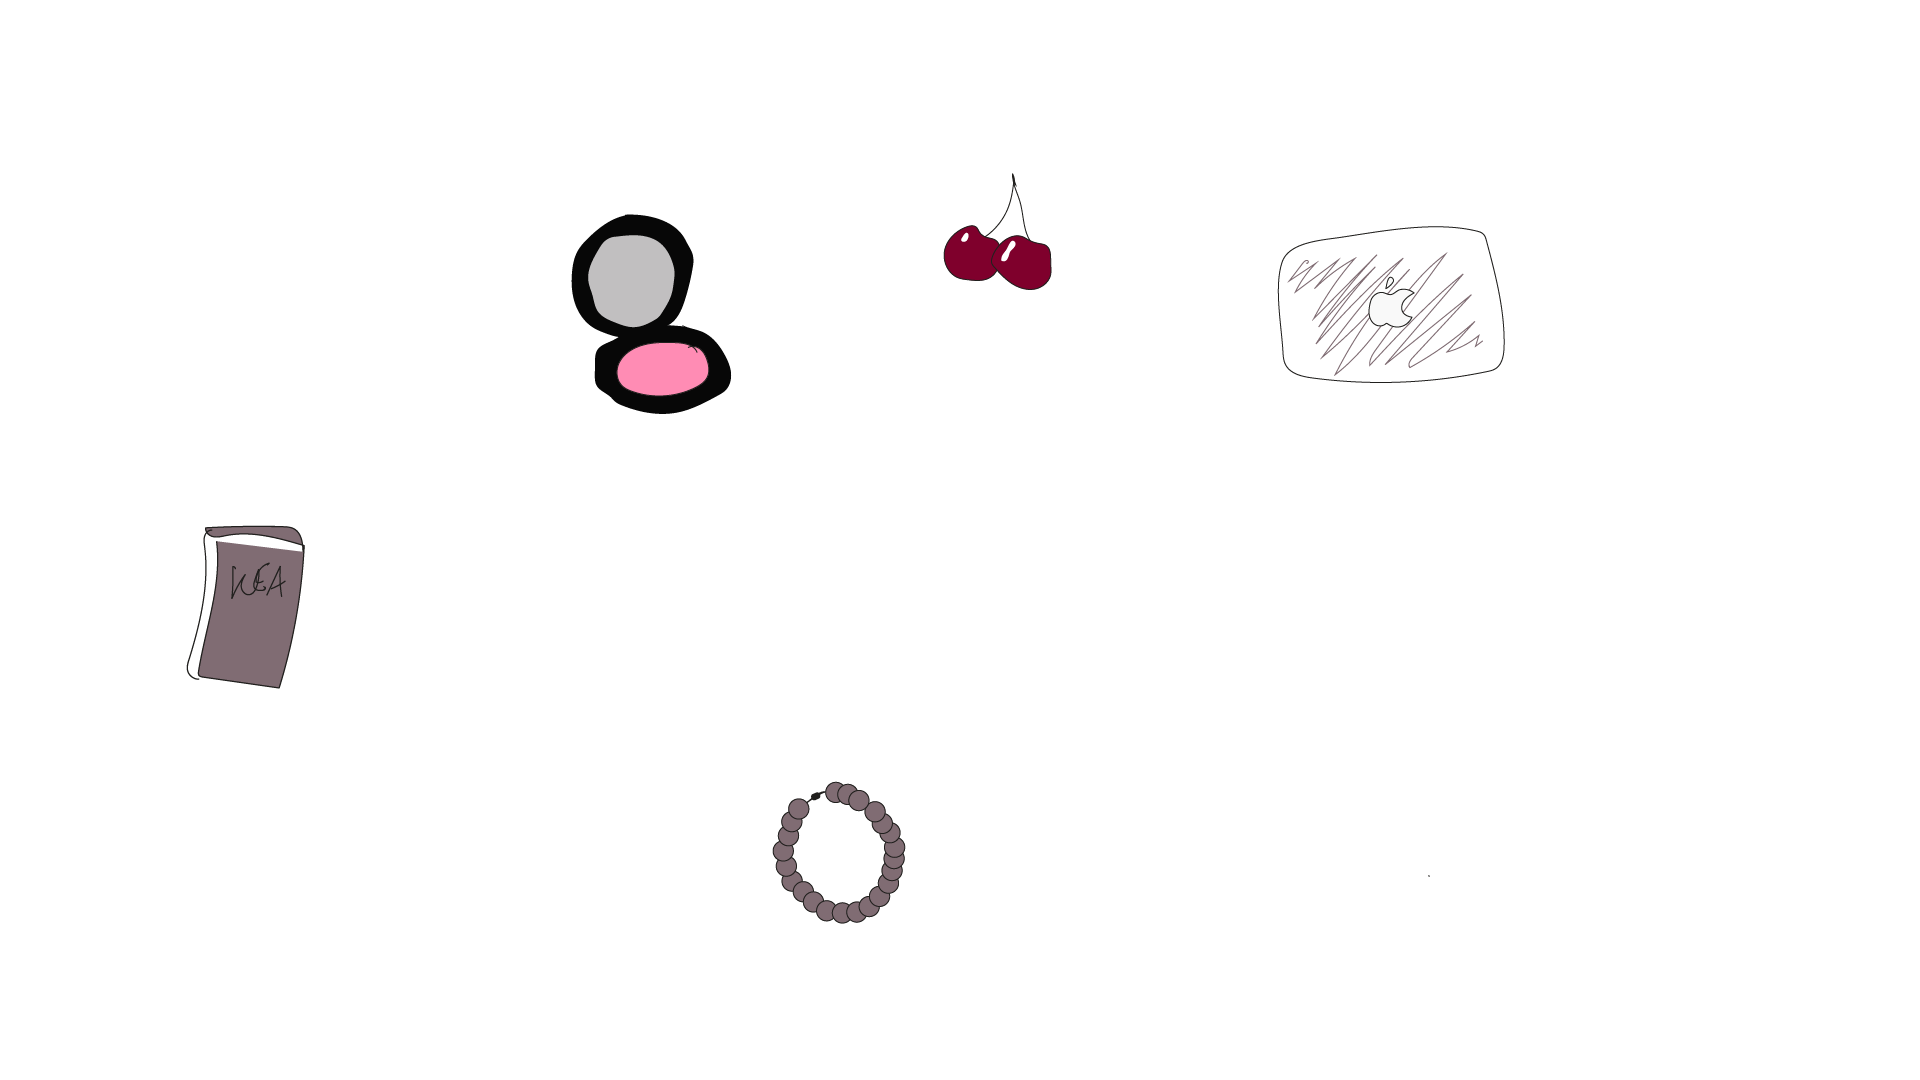
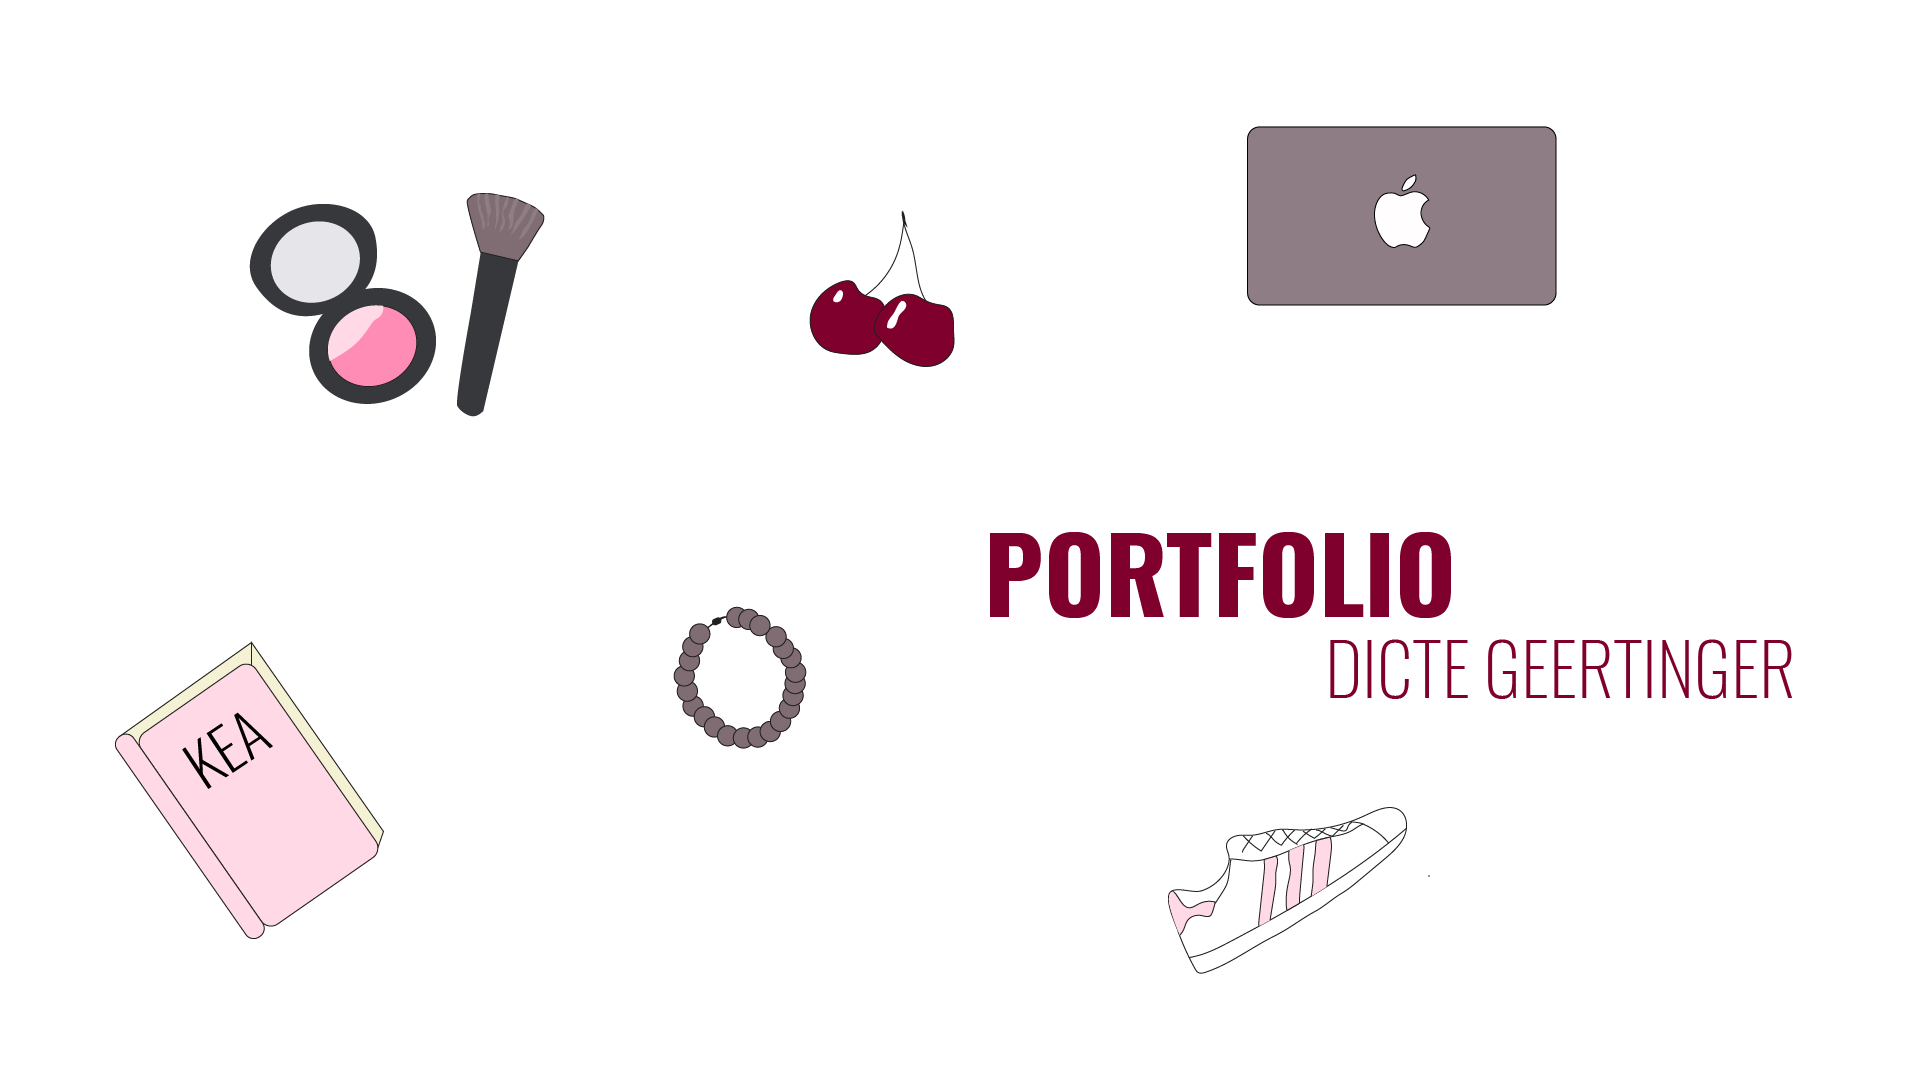
ok langt

diff --git a/uxside.html b/uxside.html
@@ -23,7 +23,76 @@
     </div>
 
     <section id="uxside">
-        <h1>UX</h1>
+        <h1>03 UX</h1>
+
+        <div class="sidesectionwrapper">
+            <div class="col">
+                <h2>Dataindsamling</h2>
+                <p><strong>03.01.01 dataindsamling</strong></p>
+                <p>Lorem ipsum dolor sit amet, consectetur adipisicing elit. Nesciunt porro placeat officia tempora omnis similique temporibus aliquid fugiat, sunt ex ab, nam quae? Rem vero tenetur, itaque pariatur sapiente,Lorem ipsum dolor sit amet, consectetur adipisicing elit. Laborum optio facere in error, ut sapiente, amet dolorum illo dolores. Dolorum velit natus accusamus, consequatur facere porro iure quae, in officiis!
+                    Lorem ipsum dolor sit amet, consectetur adipisicing elit. Rerum, illum, facilis. Ullam illum quam esse hic consequatur architecto voluptatem minima aut rerum doloremque quas veritatis culpa, est ad numquam sed?</p>
+            </div>
+            <div class="col">
+                <a href="https://documentcloud.adobe.com/link/track?uri=urn%3Aaaid%3Ascds%3AUS%3Ae3fa5a76-4531-4c11-8dd3-a61358de54fa" target="_blank">DATA</a>
+            </div>
+
+        </div>
+
+        <div class="sidesectionwrapper">
+            <div class="col">
+                <h2>Prototype</h2>
+                <p><strong>03.03.01 prototype</strong></p>
+                <p>Lorem ipsum dolor sit amet, consectetur adipisicing elit. Nesciunt porro placeat officia tempora omnis similique temporibus aliquid fugiat, sunt ex ab, nam quae? Rem vero tenetur, itaque pariatur sapiente,Lorem ipsum dolor sit amet, consectetur adipisicing elit. Laborum optio facere in error, ut sapiente, amet dolorum illo dolores. Dolorum velit natus accusamus, consequatur facere porro iure quae, in officiis!
+                    Lorem ipsum dolor sit amet, consectetur adipisicing elit. Rerum, illum, facilis. Ullam illum quam esse hic consequatur architecto voluptatem minima aut rerum doloremque quas veritatis culpa, est ad numquam sed?</p>
+            </div>
+        </div>
+
+        <div class="sidesectionwrapper">
+            <a href="https://xd.adobe.com/view/5b87451a-d8f5-4c1d-70b7-70d041951b5d-2db6/" target="_blank">
+                <div class="uxprototype">
+                    <img src="portfolio/velkomme.png" alt="velkommen"> </div>
+            </a>
+            <a href="https://xd.adobe.com/view/5b87451a-d8f5-4c1d-70b7-70d041951b5d-2db6/" target="_blank">
+
+                <div class="uxprototype">
+                    <img src="portfolio/kopper.png" alt="kopper">
+                </div>
+            </a>
+            <a href="https://xd.adobe.com/view/5b87451a-d8f5-4c1d-70b7-70d041951b5d-2db6/" target="_blank">
+                <div class="uxprototype">
+                    <img src="portfolio/betal.png" alt="betal">
+                </div>
+            </a>
+        </div>
+
+
+        <div class="sidesectionwrapper">
+            <div class="col">
+                <h2>Design sprint</h2>
+                <p><strong>03.04.01 Design Sprint</strong></p>
+                <p>Lorem ipsum dolor sit amet, consectetur adipisicing elit. Soluta ad ipsa voluptatem libero iure dolorum dicta impedit earum assumenda, quibusdam iusto nemo, eligendi vitae, quos natus in quia eaque aliquid.
+                    Lorem ipsum dolor sit amet, consectetur adipisicing elit. Soluta ad ipsa voluptatem libero iure dolorum dicta impedit earum assumenda, quibusdam iusto nemo, eligendi vitae, quos natus in quia eaque aliquid.Lorem ipsum dolor sit amet, consectetur adipisicing elit. Soluta ad ipsa voluptatem libero iure dolorum dicta impedit earum assumenda, quibusdam iusto nemo, eligendi vitae, quos natus in quia eaque aliquid.Lorem ipsum dolor sit amet, consectetur adipisicing elit. Soluta ad ipsa voluptatem libero iure dolorum dicta impedit earum assumenda, quibusdam iusto nemo, eligendi vitae, quos natus in quia eaque aliquid.</p>
+            </div>
+
+        </div>
+
+        <div class="sidesectionwrapper">
+            <a href="" target="_blank">
+                <div class="uxprototype">
+                    <img src="portfolio/velkomme.png" alt="velkommen"> </div>
+            </a>
+            <a href="" target="_blank">
+                <div class="uxprototype">
+                    <img src="portfolio/kopper.png" alt="kopper">
+                </div>
+            </a>
+            <a href="" target="_blank">
+                <div class="uxprototype">
+                    <img src="portfolio/betal.png" alt="betal">
+                </div>
+            </a>
+
+        </div>
 
     </section>
 

diff --git a/style.css b/style.css
@@ -13,6 +13,10 @@ body {
 
 }
 
+.nav a:hover {
+    color: #FFD9E6;
+}
+
 .menu {
     margin: 0 30px 0 0;
     background-color: #000000;
@@ -116,6 +120,7 @@ label {
     flex-grow: 1;
     margin: 2rem;
     margin-top: 0;
+    max-width: 700px;
 }
 
 
@@ -127,7 +132,7 @@ label {
     background-image: url(forside.png);
     background-size: cover;
     max-width: none;
-    background-position: 67% 10%;
+    background-position: 68% 10%;
 }
 
 
@@ -174,14 +179,67 @@ label {
     margin-bottom: 0;
 }
 
+#webside img {
+    width: 100%;
+
+    margin-top: 70px;
+}
+
+/******* UX SIDE ******/
+#uxside h1 {
+    font-size: 5rem;
+    text-align: center;
+    margin-bottom: 0;
+}
 
 
+#uxside h2 {
+    font-size: 3.5rem;
+    color: #806C73;
+    margin-bottom: 0;
+}
+
+.uxprototype {
+    flex-basis: 300px;
+    align-content: center;
+    position: relative;
+    margin: 30px;
+}
 
 
+/******* ANIMATION SIDE ******/
+#animationside h1 {
+    font-size: 5rem;
+    text-align: center;
+    margin-bottom: 0;
+}
 
 
+#animationside h2 {
+    font-size: 3.5rem;
+    color: #806C73;
+    margin-bottom: 0;
+}
+
+/******* INDHOLD SIDE ******/
+#indholdside h1 {
+    font-size: 5rem;
+    text-align: center;
+    margin-bottom: 0;
+}
 
 
+#indholdside h2 {
+    font-size: 3.5rem;
+    color: #806C73;
+    margin-bottom: 0;
+}
+
+embed {
+    width: 700px;
+    height: 600px;
+    margin-top: 70px;
+}
 
 
 /********* PORTFOLIO SIDE *********/
@@ -204,13 +262,20 @@ label {
     margin: 15px;
     flex-grow: 1;
     flex-basis: 230px;
-    align-content: center;
 }
 
 #bokse {
     max-width: 1200px;
     margin: auto;
     margin-top: 230px;
+
+}
+
+#web,
+#UX,
+#animation,
+#indhold h1 {
+    text-align: center;
 
 }
 
@@ -222,6 +287,9 @@ label {
 
 
 /****** MEDIA QUERYS *******/
+
+
+
 
 
 @media only screen and (max-width:600px) {
@@ -253,4 +321,16 @@ label {
         width: 100%;
     }
 
+    .sidesectionwrapper {
+        display: flex;
+        flex-wrap: wrap;
+        margin: 0px 10px 0 10px;
+    }
+
+    embed {
+        width: 350px;
+        height: 250px;
+        margin-top: 10px;
+
+    }
 }

diff --git a/animationside.html b/animationside.html
@@ -25,7 +25,39 @@
 
     <section id="animationside">
 
-        <h1>animation</h1>
+        <h1> 04 animation</h1>
+        <div class="sidesectionwrapper">
+            <div class="col">
+                <h2>Egen animation</h2>
+                <p><strong>04.01.04 Assetliste og designdokumentation</strong></p>
+
+                <a href="http://dictegeertinger.dk/kea/04_animation/spil_/assets/" target="_blank">ASSETS</a>
+                <br>
+                <a href="https://documentcloud.adobe.com/link/track?uri=urn%3Aaaid%3Ascds%3AUS%3Ac40f6abb-07af-4c31-9bae-c02bf3c6ee08" target="_blank">DESIGNDOKUMENTATION</a>
+
+                <p><strong>04.04.01 Animations-opgaven</strong></p>
+
+            </div>
+            <div class="col">
+                <embed src="http://dictegeertinger.dk/kea/04_animation/spil/">
+            </div>
+
+        </div>
+
+        <div class="sidesectionwrapper">
+            <div class="col">
+                <h2>Gruppeopgave</h2>
+                <p><strong>04.04.01 Projekt: Billeddeling</strong></p>
+
+                <a href="http://dictegeertinger.dk/kea/04_animation/gruppe12_dokumentationssite/" target="_blank">DESIGNDOKUMENTATION</a>
+
+            </div>
+            <div class="col">
+                <embed src="http://dictegeertinger.dk/kea/04_animation/gruppe12_spil/">
+            </div>
+
+        </div>
+
 
     </section>
 

diff --git a/indholdside.html b/indholdside.html
@@ -25,7 +25,25 @@
 
     <section id="indholdside">
 
-        <h1>indhold</h1>
+        <h1> 05 indhold</h1>
+        <div class="sidesectionwrapper">
+            <div class="col">
+                <h2>Pilotvideo</h2>
+                <p><strong>05.01.01 Pilotvideo</strong></p>
+            </div>
+            <div class="col"></div>
+
+        </div>
+
+        <div class="sidesectionwrapper">
+            <div class="col">
+                <h2>Redesign</h2>
+                <p><strong>05.03.01 Redesign og temadokumentation</strong></p>
+            </div>
+            <div class="col"></div>
+
+        </div>
+
 
     </section>
 

diff --git a/webside.html b/webside.html
@@ -29,7 +29,11 @@
                 <h2>Surrealisme</h2>
                 <p><strong>02.04.02 responsive_site_v2</strong></p>
             </div>
-            <div class="col"></div>
+            <div class="col">
+                <a href="http://dictegeertinger.dk/kea/02_web/04_responsive/02_04_02_responsive_site_v2/" target="_blank">
+                    <img src="portfolio/splash.jpg" alt="responsiv hjemmesides splashbillede">
+                </a>
+            </div>
 
         </div>
 

diff --git a/index.html b/index.html
@@ -23,8 +23,7 @@
     </div>
 
     <section id="splash">
-        <h1>portfolio</h1>
-        <h2>Dicte Geertinger</h2>
+
     </section>
 
     <script src=""></script>
